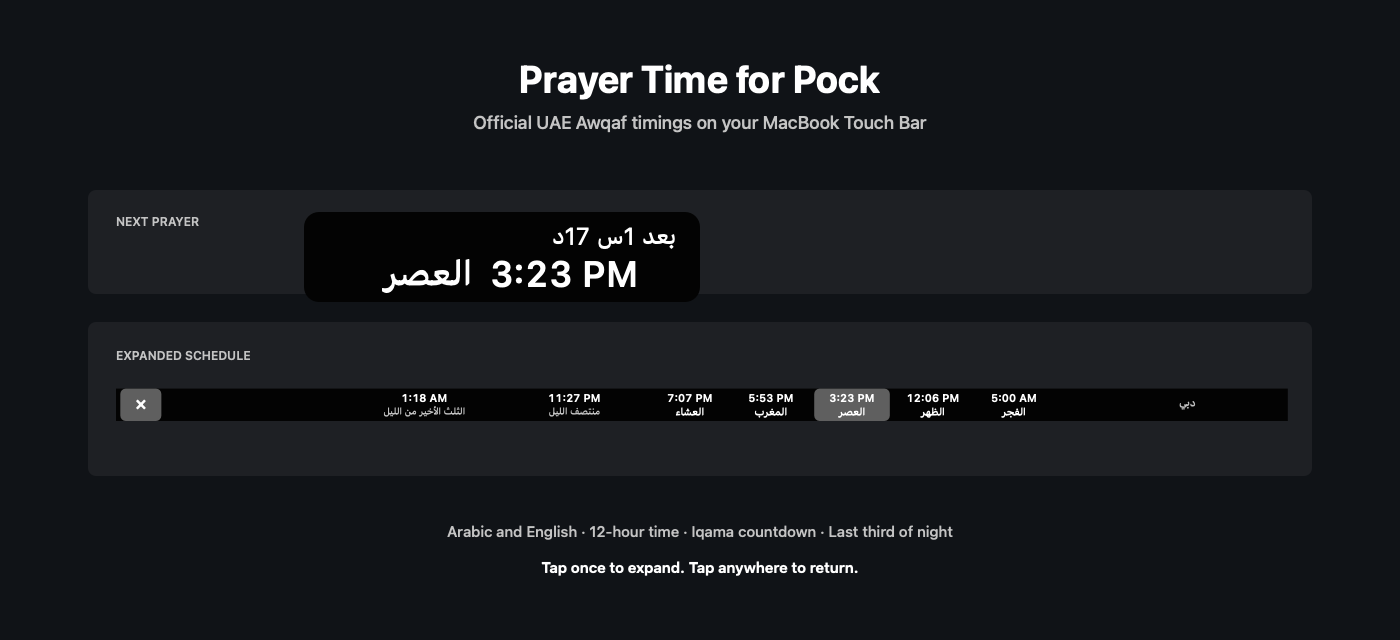
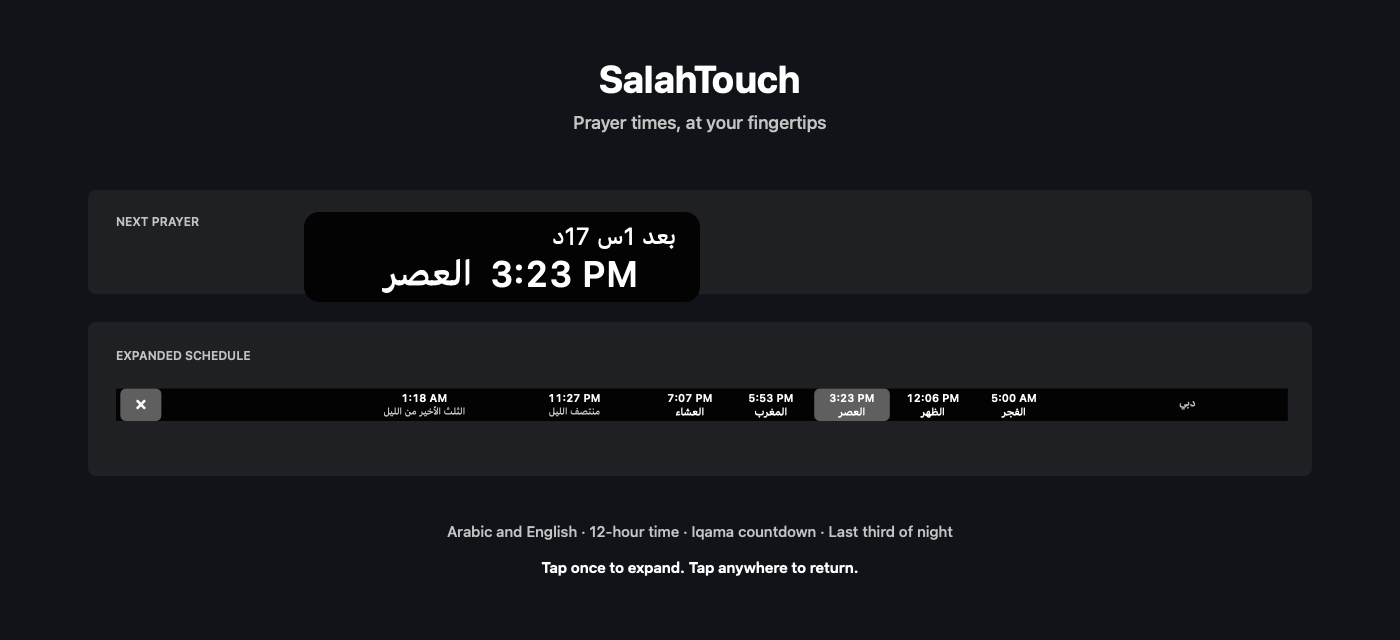
feat: brand the widget as SalahTouch

Changed region(s): [[0.3686, 0.0938, 0.645, 0.1562], [0.3379, 0.1562, 0.6757, 0.2188]]

diff --git a/scripts/render-screenshots.swift b/scripts/render-screenshots.swift
@@ -129,8 +129,8 @@ private func overviewView() -> NSView {
         Palette.canvas.setFill()
         bounds.fill()
 
-        drawText("Prayer Time for Pock", in: NSRect(x: 90, y: 530, width: 1220, height: 54), font: .systemFont(ofSize: 38, weight: .bold))
-        drawText("Official UAE Awqaf timings on your MacBook Touch Bar", in: NSRect(x: 90, y: 498, width: 1220, height: 30), font: .systemFont(ofSize: 18, weight: .medium), color: Palette.secondary)
+        drawText("SalahTouch", in: NSRect(x: 90, y: 530, width: 1220, height: 54), font: .systemFont(ofSize: 38, weight: .bold))
+        drawText("Prayer times, at your fingertips", in: NSRect(x: 90, y: 498, width: 1220, height: 30), font: .systemFont(ofSize: 18, weight: .medium), color: Palette.secondary)
 
         fillRounded(NSRect(x: 88, y: 346, width: 1224, height: 104), color: Palette.panel, radius: 8)
         drawText("NEXT PRAYER", in: NSRect(x: 116, y: 406, width: 170, height: 20), font: .systemFont(ofSize: 12, weight: .semibold), color: Palette.secondary, alignment: .left)

diff --git a/README.md b/README.md
@@ -1,8 +1,10 @@
 <div align="center">
 
-# Prayer Time for Pock
+# SalahTouch
 
-**Official UAE prayer times, iqama countdowns, and night calculations on the MacBook Touch Bar.**
+**Prayer times, at your fingertips.**
+
+Official UAE prayer times, iqama countdowns, and night calculations on the MacBook Touch Bar.
 
 [![macOS 10.15+](https://img.shields.io/badge/macOS-10.15%2B-111111?logo=apple&logoColor=white)](https://support.apple.com/macos)
 [![Swift 5.5+](https://img.shields.io/badge/Swift-5.5%2B-F05138?logo=swift&logoColor=white)](https://www.swift.org/)
@@ -10,11 +12,11 @@
 [![UAE Awqaf](https://img.shields.io/badge/timings-UAE%20Awqaf-00843D)](https://www.awqaf.gov.ae/prayer-times?lang=en)
 [![MIT License](https://img.shields.io/badge/license-MIT-yellow.svg)](LICENSE)
 
-![Prayer Time for Pock overview](docs/overview.png)
+![SalahTouch for Pock overview](docs/overview.png)
 
 </div>
 
-Prayer Time for Pock keeps the next salah visible without opening an app. It uses your Mac's location to select the nearest official UAE Awqaf area, refreshes every six hours, and keeps a cached schedule available between network requests.
+SalahTouch is a prayer-time extension built specifically for the MacBook Touch Bar through Pock. It keeps the next salah visible without opening an app, uses your Mac's location to select the nearest official UAE Awqaf area, refreshes every six hours, and keeps a cached schedule available between network requests.
 
 ## Highlights
 
@@ -45,7 +47,7 @@ The expanded view shows all five prayers, the calculated night times, your locat
 
 ### Download
 
-1. Download `PrayerTimeWidget.pock` from the [latest release](https://github.com/GhalebAldoboni/pock-prayer-time-widget/releases/latest).
+1. Download `SalahTouch.pock.zip` from the [latest release](https://github.com/GhalebAldoboni/salah-touch/releases/latest) and unzip it.
 2. Quit Pock.
 3. Double-click the widget, or place it in:
 
@@ -53,14 +55,14 @@ The expanded view shows all five prayers, the calculated night times, your locat
    ~/Library/Application Support/Pock/Widgets/PrayerTimeWidget.pock
    ```
 
-4. Start Pock and add **وقت الصلاة / Prayer Time** from the widget manager.
+4. Start Pock and add **SalahTouch** from the widget manager.
 5. Allow location access when macOS asks, or select manual coordinates in the widget settings.
 
 ### Build from source
 
 ```bash
-git clone https://github.com/GhalebAldoboni/pock-prayer-time-widget.git
-cd pock-prayer-time-widget
+git clone https://github.com/GhalebAldoboni/salah-touch.git
+cd salah-touch
 ./build-widget.sh
 ```
 
@@ -68,7 +70,7 @@ The signed development bundle is created at `build/PrayerTimeWidget.pock`.
 
 ## Configuration
 
-Open Pock's widget manager and select **وقت الصلاة / Prayer Time**.
+Open Pock's widget manager and select **SalahTouch**.
 
 | Setting | Options |
 |---|---|
